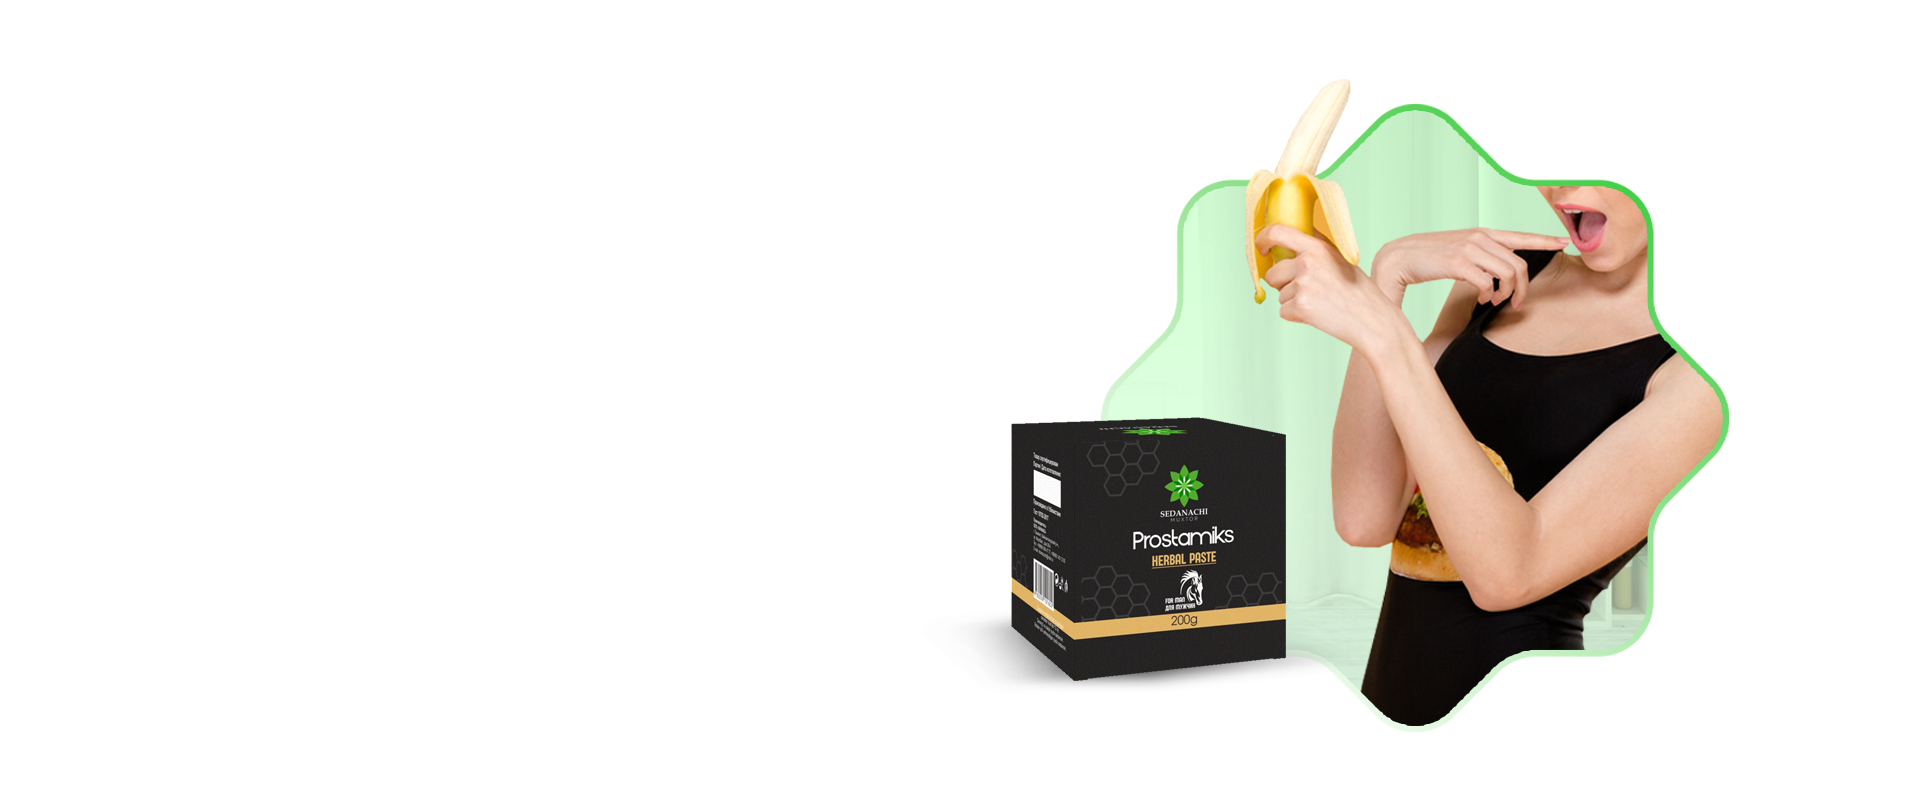
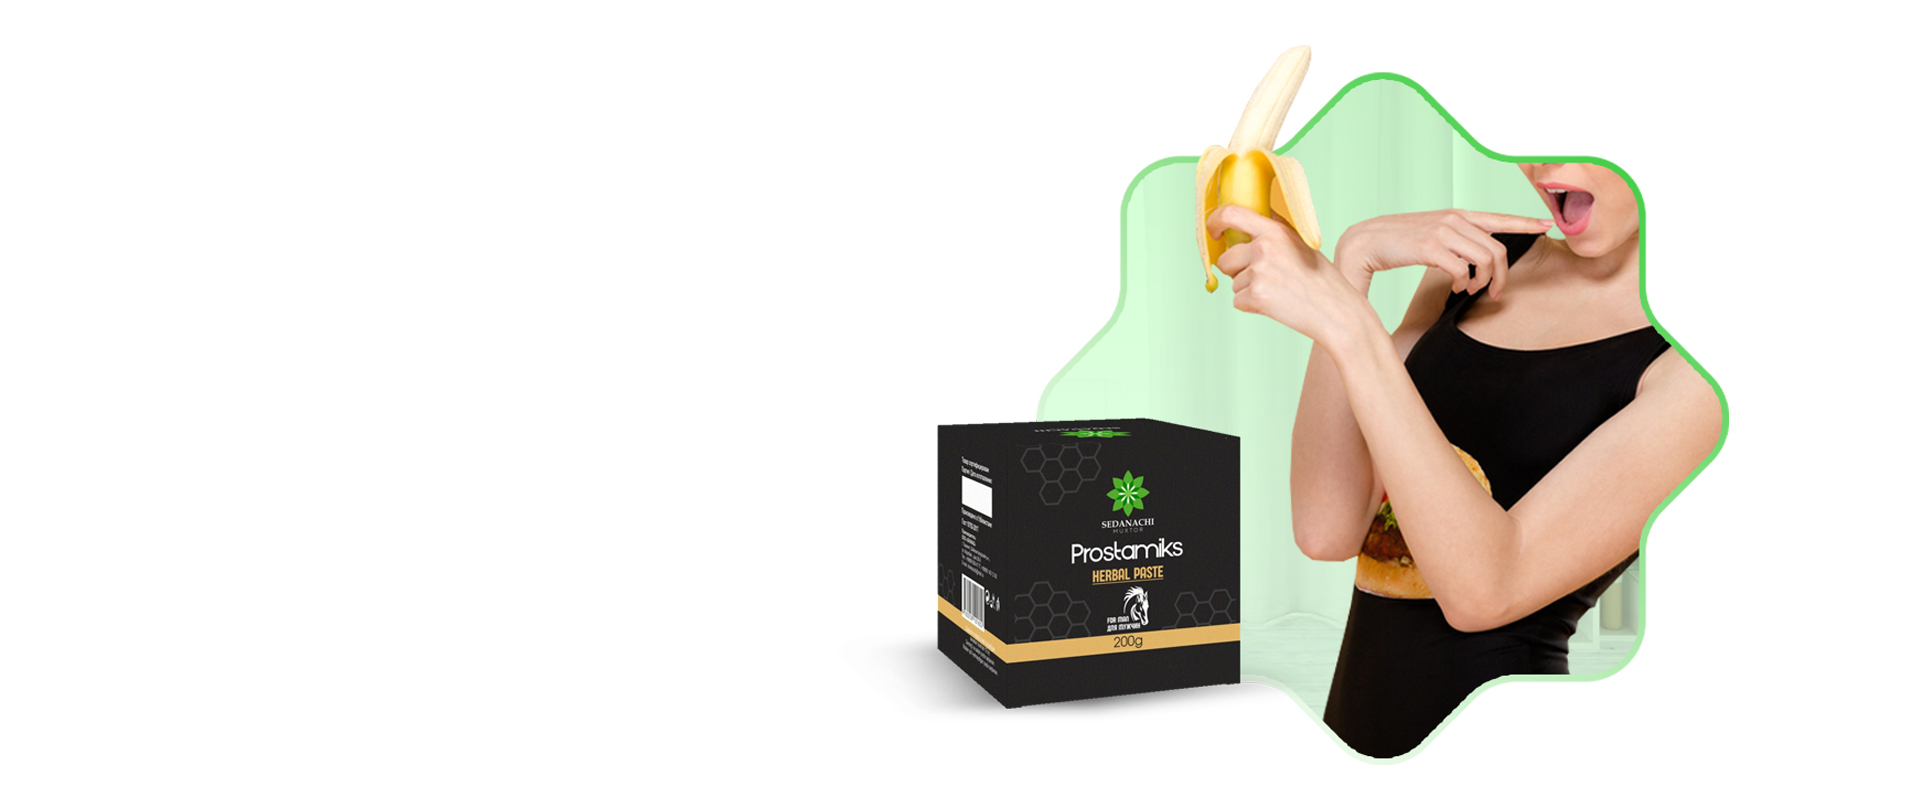
корректировка

Changed region(s): [[0.4688, 0.0617, 0.875, 0.9568], [0.875, 0.5556, 0.9062, 0.5864]]

diff --git a/appvizitka/templates/appvizitka/index.html b/appvizitka/templates/appvizitka/index.html
@@ -37,7 +37,7 @@
     <link rel="stylesheet" href=" {% static "appvizitka/css/flexslider.css" %}">
     <link rel="stylesheet" href=" {% static "appvizitka/css/owl.carousel.min.css" %}">
     <link rel="stylesheet" href=" {% static "appvizitka/css/bootstrap.min.css" %}">
-
+    <link rel="icon" href="{% static "appvizitka/img/Favicon 1.ico" %}">
     <!-- =========================
         Loding Main Theme Style
     ============================== -->
@@ -179,7 +179,7 @@
             <nav class="navbar-expand-lg navbar-light d-lg-flex justify-content-lg-end pos-r">
                 <div class="main-logo text-center d-lg-inline-flex justify-content-start d-lg-flex align-items-lg-center">
                     <a class="navbar-brand mr-0" href="index.html">
-                        <img src="img/logo.png" class="img-fluid header-logo" alt="Vigo Logo">
+                        <img src="{% static "appvizitka/img/logo1.png" %}" class="img-fluid header-logo" alt="Prostamiks Logo">
                     </a>
                 </div>
                 <div class="d-flex justify-content-between d-lg-inline-flex justify-content-lg-between">
@@ -252,22 +252,22 @@
                     </div>
                 </div>
             </div>
-<!--            <div class="item">-->
-<!--                <img src="{% static "appvizitka/img/slider-img2.jpg" %}" class="img-fluid" alt="Vigo Slider Image">-->
-<!--                <div class="slider-text-box">-->
-<!--                    <div class="container custom-container">-->
-<!--                        <div class="row">-->
-<!--                            <div class="col-12 col-md-6 col-xl-5">-->
-<!--                                <div class="ct-slider-text">-->
-<!--                                    <h1 class="slider-title">Dealing <br> <strong>With <span class="green">VIGO</span></strong></h1>-->
-<!--                                    <p class="d-none d-md-block">There are many variations of passages of Lorem Ipsum available, but the majority have suffered alteration in some form, by injected humour, or randomised words which don't look even slightly believable.</p>-->
+            <div class="item">
+                <img src="{% static "appvizitka/img/Img 2.jpg" %}" class="img-fluid" alt="Vigo Slider Image">
+                <div class="slider-text-box">
+                    <div class="container custom-container">
+                        <div class="row">
+                            <div class="col-12 col-md-6 col-xl-5">
+                                <div class="ct-slider-text">
+                                    <h1 class="slider-title">Test <br> <strong>Test <span class="green">TEST</span></strong></h1>
+                                    <p class="d-none d-md-block"> TEST TEST TEST </p>
 <!--                                    <a href="https://themeforest.net/item/vigohealth-supplement-landing-page-html-template/20927753" target="_blank" class="btn ral btn-outline-primary vigo-btn hvr-shutter-out-horizontal bg-green border-transparent white focus-none">ORDER NOW</a>-->
-<!--                                </div>-->
-<!--                            </div>-->
-<!--                        </div>-->
-<!--                    </div>-->
-<!--                </div>-->
-<!--            </div>-->
+                                </div>
+                            </div>
+                        </div>
+                    </div>
+                </div>
+            </div>
         </div>
     </section>
 
